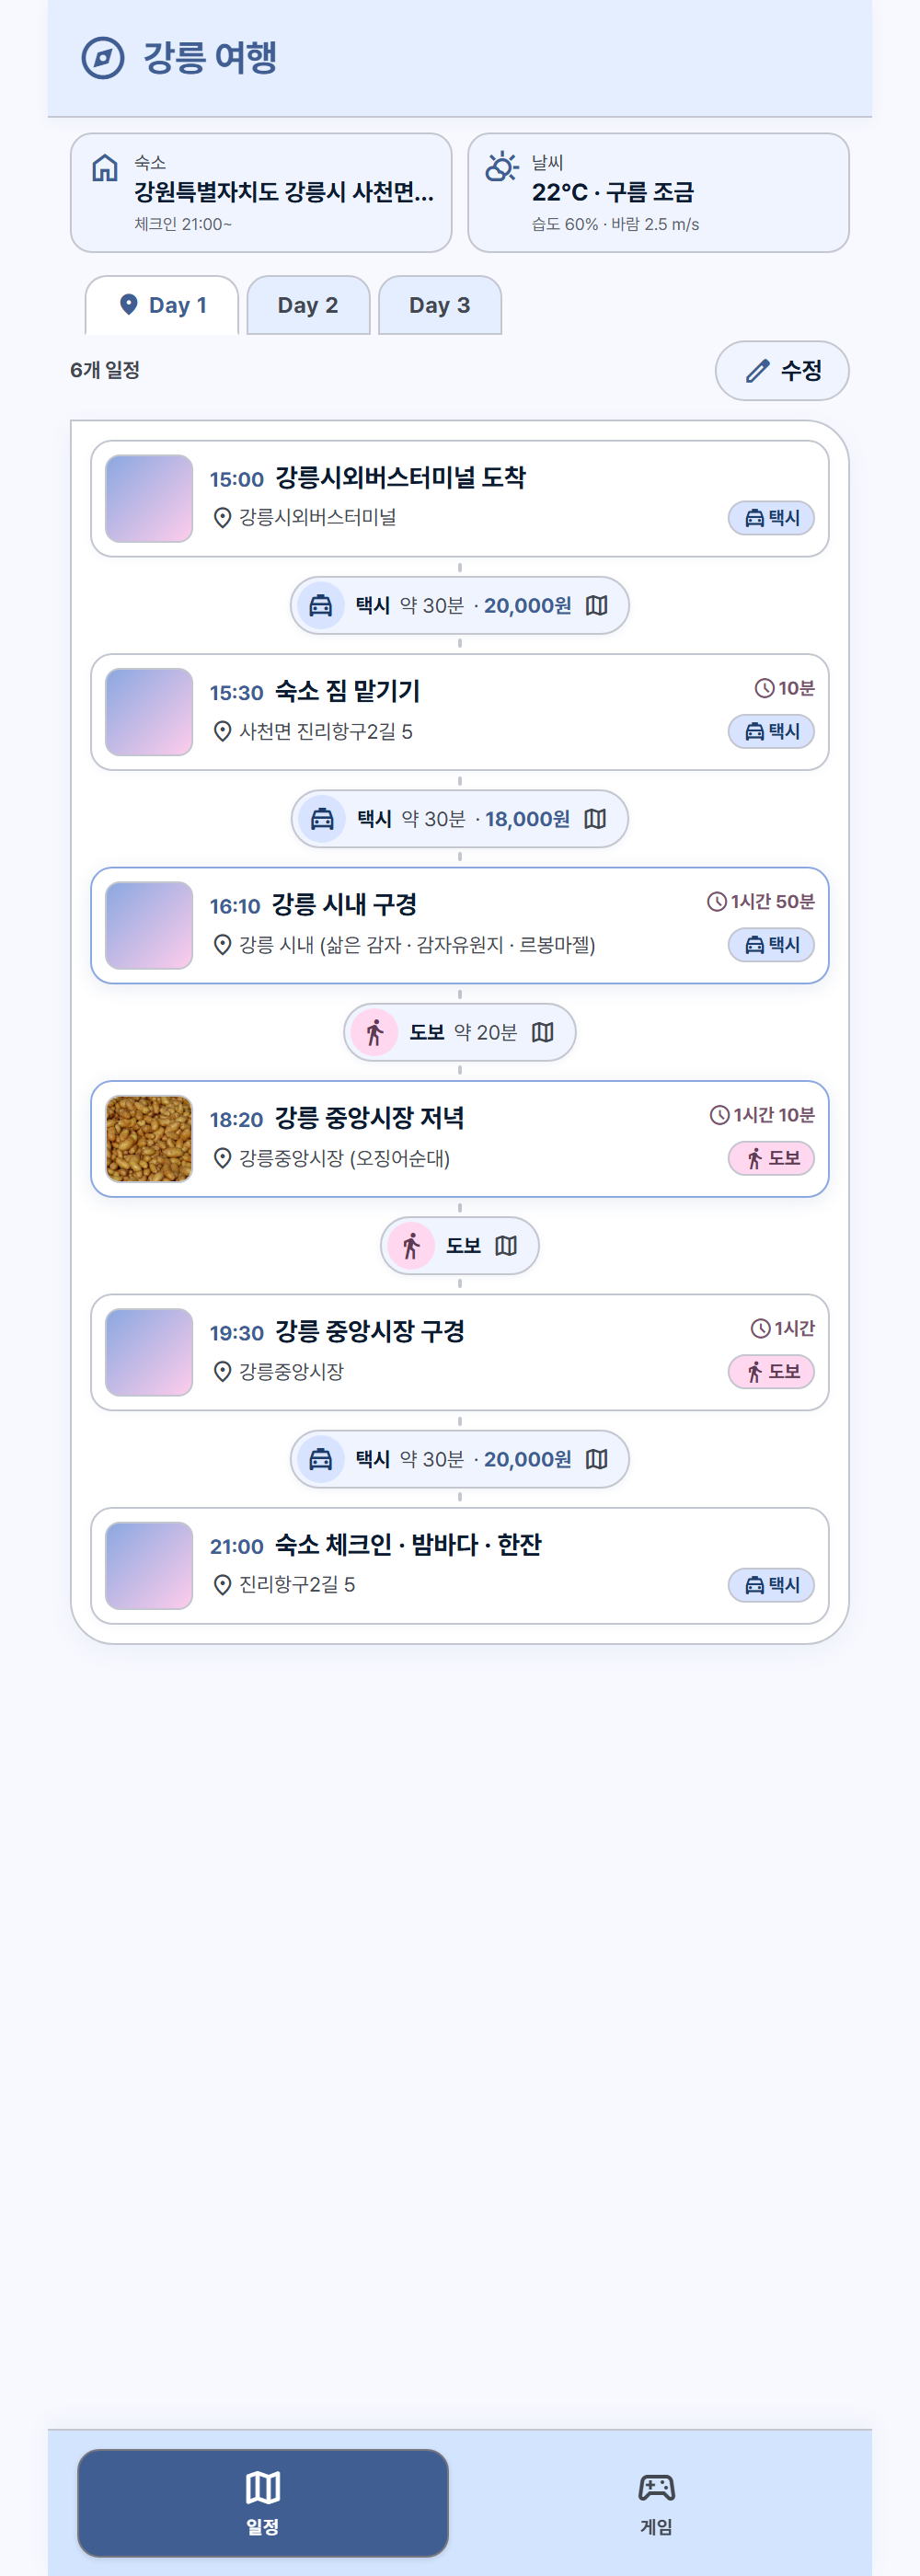
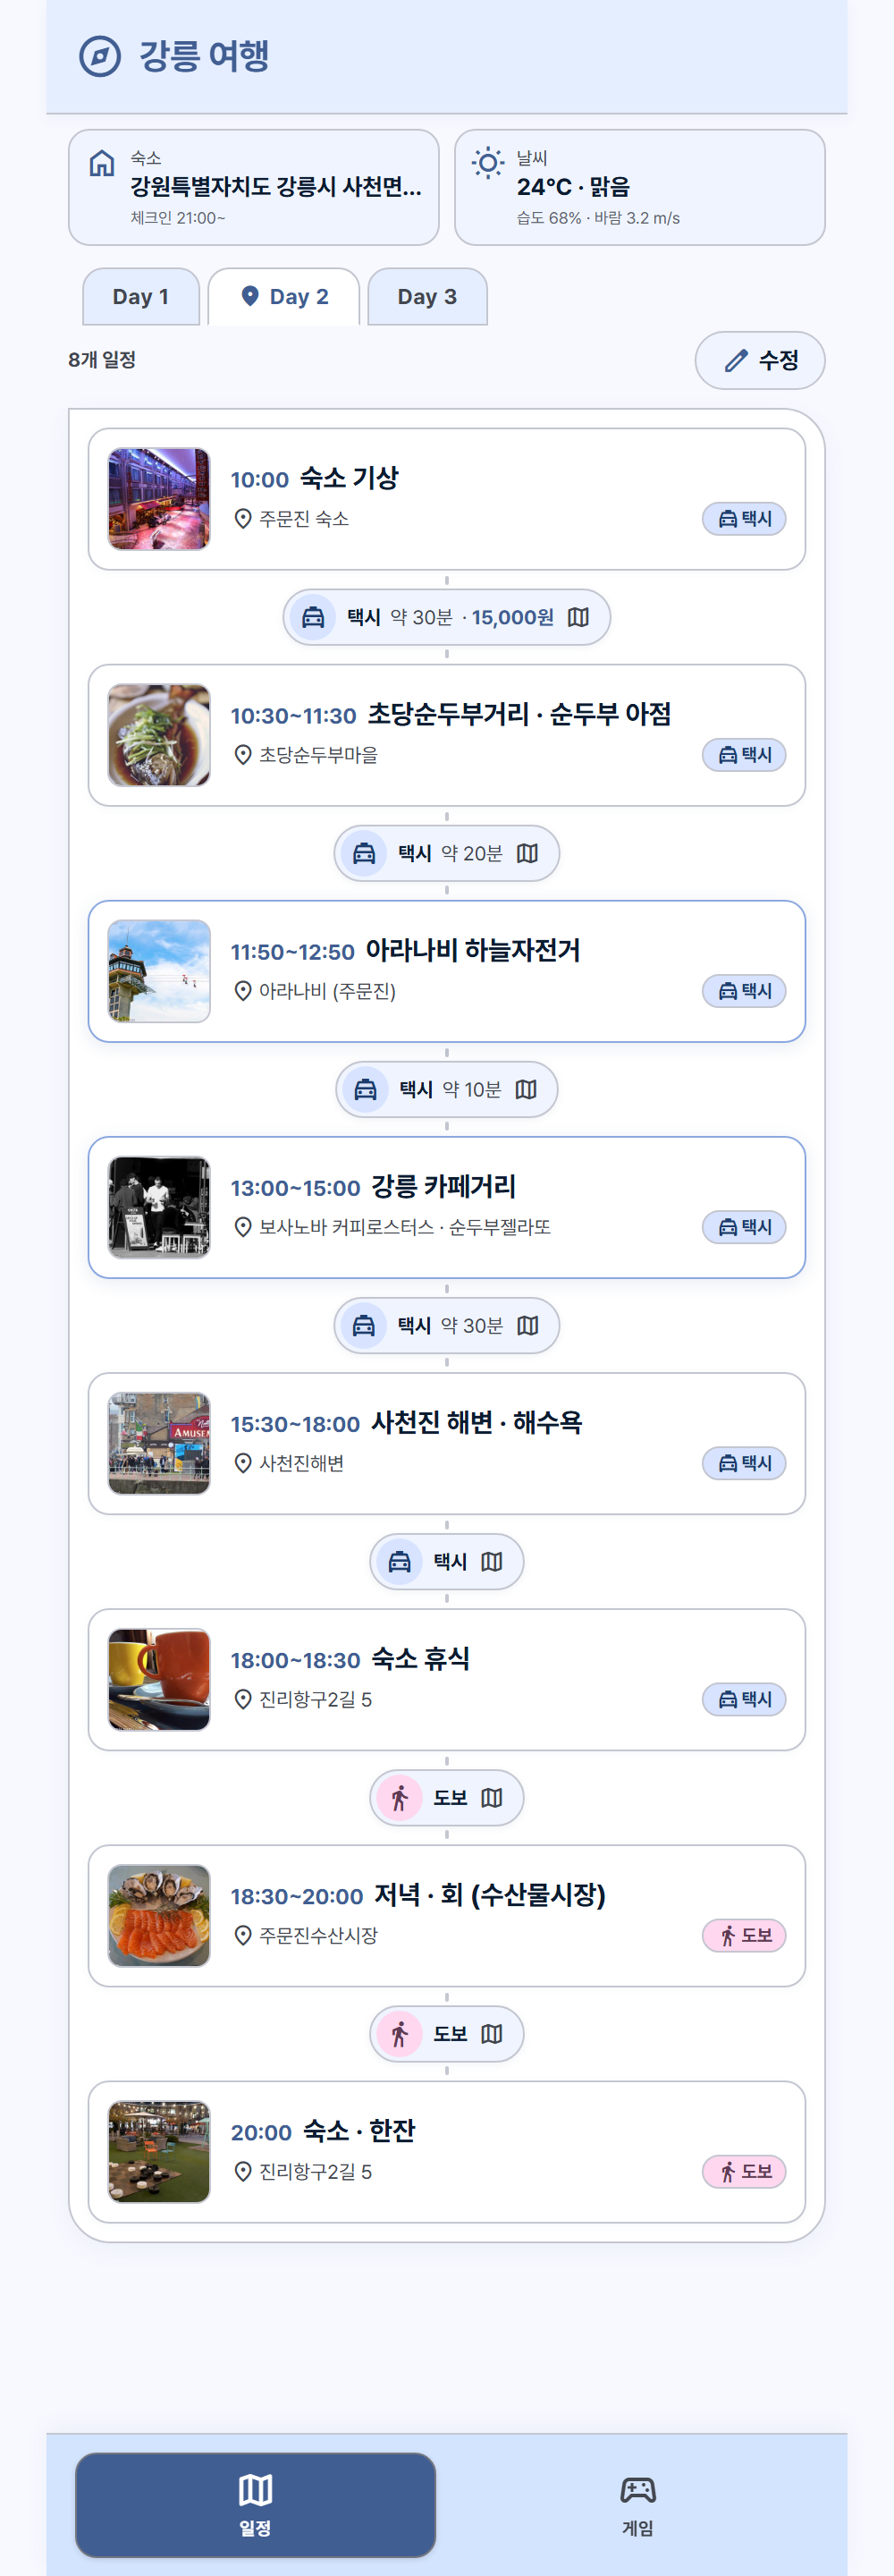
일정 카드: MUST SEE 마크 제거 · 체류를 시간범위로 표시 · 카드 확대
- MUST SEE 배지 제거 (렌더링/CSS/데이터 정리)
- 체류시간을 '1시간 50분' 대신 '16:10~18:00' 시간범위로 표시(시작+stayMin 계산)
- 일정 카드 크기 확대(썸네일 58px, 제목 15px, 여백↑)
- README 일정 스크린샷 갱신

diff --git a/frontend/src/components/EventCard.css b/frontend/src/components/EventCard.css
@@ -2,8 +2,8 @@
   position: relative;
   display: flex;
   align-items: center;
-  gap: 9px;
-  padding: 7px;
+  gap: 11px;
+  padding: 10px;
   border: 1px solid var(--outline-variant);
   border-radius: var(--radius-lg);
   background: var(--surface-container-lowest);
@@ -16,8 +16,8 @@
 
 .evt__thumb {
   flex-shrink: 0;
-  width: 48px;
-  height: 48px;
+  width: 58px;
+  height: 58px;
   border-radius: var(--radius);
   overflow: hidden;
   border: 1px solid var(--outline-variant);
@@ -43,7 +43,7 @@
 .evt__time {
   flex-shrink: 0;
   font-family: var(--font-mono);
-  font-size: 11px;
+  font-size: 12px;
   font-weight: 700;
   color: var(--primary);
 }
@@ -51,27 +51,13 @@
   flex: 0 1 auto;
   min-width: 0;
   font-family: var(--font-headline);
-  font-size: 14px;
+  font-size: 15px;
   font-weight: 700;
   color: var(--on-surface);
   line-height: 1.25;
   white-space: nowrap;
   overflow: hidden;
   text-overflow: ellipsis;
-}
-.evt-stay {
-  flex-shrink: 0;
-  margin-left: auto;
-  display: inline-flex;
-  align-items: center;
-  gap: 1px;
-  font-family: var(--font-mono);
-  font-size: 10px;
-  font-weight: 700;
-  color: var(--secondary);
-}
-.evt-stay .material-symbols-outlined {
-  font-size: 13px;
 }
 
 .evt__line2 {
@@ -133,16 +119,3 @@
   color: var(--primary);
 }
 
-.evt-mustsee {
-  position: absolute;
-  top: 6px;
-  right: 6px;
-  z-index: 2;
-  background: var(--primary);
-  color: var(--on-primary);
-  font-family: var(--font-mono);
-  font-size: 9px;
-  font-weight: 700;
-  padding: 2px 6px;
-  border-radius: var(--radius-full);
-}

diff --git a/frontend/src/components/EventCard.tsx b/frontend/src/components/EventCard.tsx
@@ -5,22 +5,27 @@ interface Props {
   event: ItineraryEvent;
 }
 
-// 분 → "1시간 50분" / "2시간" / "40분"
-function fmtDuration(min: number): string {
-  const h = Math.floor(min / 60);
-  const m = min % 60;
-  if (h > 0 && m > 0) return `${h}시간 ${m}분`;
-  if (h > 0) return `${h}시간`;
-  return `${m}분`;
+// "16:10" + 110분 → "18:00"
+function addMinutes(time: string, min: number): string {
+  const [h, m] = time.split(':').map(Number);
+  if (Number.isNaN(h) || Number.isNaN(m)) return time;
+  const total = h * 60 + m + min;
+  const hh = Math.floor(total / 60) % 24;
+  const mm = total % 60;
+  return `${String(hh).padStart(2, '0')}:${String(mm).padStart(2, '0')}`;
 }
 
 // 일정 카드 (컴팩트 가로형: 작은 썸네일 + 2줄 정보)
 export default function EventCard({ event }: Props) {
   const t = event.transport;
   const tIcon = t === '도보' ? 'directions_walk' : 'local_taxi';
+  // 머무는 시간이 있으면 "시작~끝" 범위로, 없으면 시작 시각만
+  const timeLabel =
+    event.stayMin != null && event.stayMin > 0
+      ? `${event.time}~${addMinutes(event.time, event.stayMin)}`
+      : event.time;
   return (
     <article className={'evt' + (event.highlight ? ' evt--accent' : '')}>
-      {event.mustSee && <span className="evt-mustsee">MUST&nbsp;SEE</span>}
       <div className="evt__thumb">
         <img
           src={event.image}
@@ -33,14 +38,8 @@ export default function EventCard({ event }: Props) {
       </div>
       <div className="evt__body">
         <div className="evt__line1">
-          <span className="evt__time">{event.time}</span>
+          <span className="evt__time">{timeLabel}</span>
           <h3 className="evt-title">{event.title}</h3>
-          {event.stayMin != null && event.stayMin > 0 && (
-            <span className="evt-stay">
-              <span className="material-symbols-outlined">schedule</span>
-              {fmtDuration(event.stayMin)}
-            </span>
-          )}
         </div>
         <div className="evt__line2">
           <span className="evt-place">

diff --git a/backend/src/data/itinerary.js b/backend/src/data/itinerary.js
@@ -184,7 +184,6 @@ const days = [
         durationMin: 20,
         image: img('zipline,adventure', 23),
         highlight: true,
-        mustSee: true,
       },
       {
         time: '13:00',